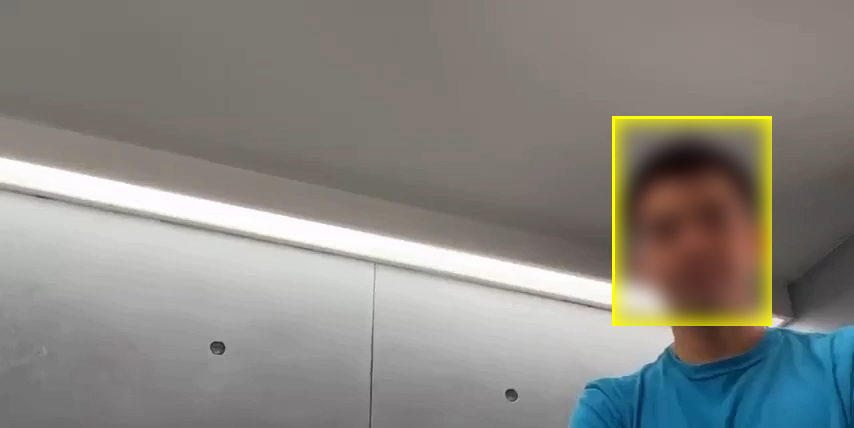
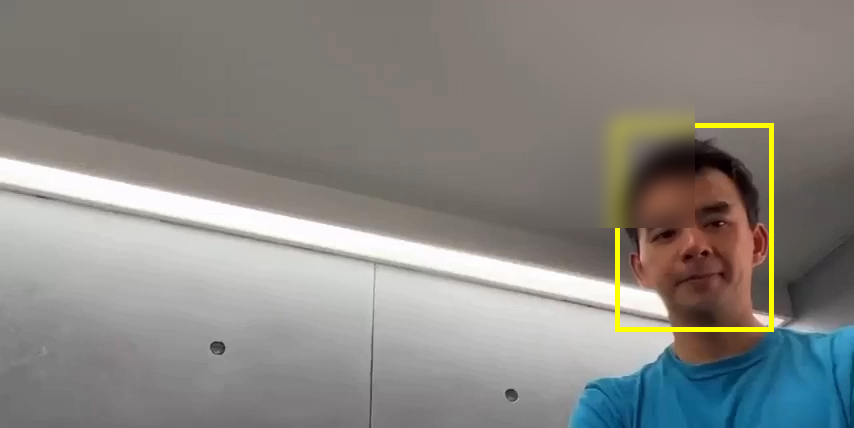
Correction of NCC computation

Changed region(s): [[0.7002, 0.2734, 0.9133, 0.7897]]

diff --git a/NccTracking.m b/NccTracking.m
@@ -6,20 +6,20 @@ templateDec = shrink(templateOri);
 [templateH,templateW,~]=size(templateOri);
 templateHI=templateH*2;
 templateWI=templateW*2;
-templateHD=templateH/2;
-templateWD=templateW/2;
+templateHD=floor(templateH/2);
+templateWD=floor(templateW/2);
 
 for f = 1:1
     % Update template after each cycle
     if f > 1
-        templateOri = double(frames(y0:y0+h, x0:x0+w, :, f-1));
+        templateOri = double(frames(y0:y0+h-1, x0:x0+w-1, :, f-1));
         templateInc = expand(templateOri);
         templateDec = shrink(templateOri);
         [templateH,templateW,~]=size(templateOri);
         templateHI=templateH*2;
         templateWI=templateW*2;
-        templateHD=templateH/2;
-        templateWD=templateW/2;
+        templateHD=floor(templateH/2);
+        templateWD=floor(templateW/2);
     end
     
     which = 1;
@@ -42,8 +42,8 @@ for f = 1:1
     w = 0;
     h = 0;
     if whichState==1
-        x0 = w1-(templateW+1)/2-1;
-        y0 = h1-(templateH+1)/2-1;
+        x0 = w1;
+        y0 = h1;
         w = templateW;
         h = templateH;
     elseif whichState==2
@@ -67,42 +67,47 @@ end
 
 function [count,ncc]=nccSort(template,which,ncc,height,width,bigImg,state)
     [templateH,templateW,~]=size(template);
-    %template sigma and mean
+    % Caculate template sigma and mean
     tSigmaR=std(template(:,:,1),0,'all');
     tSigmaG=std(template(:,:,2),0,'all');
     tSigmaB=std(template(:,:,3),0,'all');
     tMeanR=mean2(template(:,:,1));
     tMeanG=mean2(template(:,:,2));
     tMeanB=mean2(template(:,:,3));
-    %277-24+1,366-35+1
-    for h=templateH:height-templateH+1
-        for w=templateW:width-templateW+1
+
             if mod(templateH,2)==1
-                templateH=templateH-1;
+                templateH = templateH-1;
             end
             if mod(templateW,2)==1
-                templateW=templateW-1;
+                templateW = templateW-1;
             end
-            this(:,:,1)=double(bigImg(h-((templateH)/2-1):h+((templateH)/2-1),w-((templateW)/2-1):w+((templateW)/2-1),1));
-            this(:,:,2)=double(bigImg(h-((templateH)/2-1):h+((templateH)/2-1),w-((templateW)/2-1):w+((templateW)/2-1),2));
-            this(:,:,3)=double(bigImg(h-((templateH)/2-1):h+((templateH)/2-1),w-((templateW)/2-1):w+((templateW)/2-1),3));
-            %calculate sigma for bigImg
-            SigmaR=std(this(:,:,1),0,'all');
-            SigmaG=std(this(:,:,2),0,'all');
-            SigmaB=std(this(:,:,3),0,'all');
-            %calculate mean for bigImg
-            MeanR=mean2(this(:,:,1));
-            MeanG=mean2(this(:,:,2));
-            MeanB=mean2(this(:,:,3));  
+    
+    for h=1:height-templateH+1
+        for w=1:width-templateW+1
+            top = h;
+            bottom = h+templateH-1;
+            left = w;
+            right = w+templateW-1;
+            this(:,:,1) = double(bigImg(top:bottom, left:right, 1));
+            this(:,:,2) = double(bigImg(top:bottom, left:right, 2));
+            this(:,:,3) = double(bigImg(top:bottom, left:right, 3));
+            % Calculate sigma for bigImg
+            SigmaR = std(this(:,:,1),0,'all');
+            SigmaG = std(this(:,:,2),0,'all');
+            SigmaB = std(this(:,:,3),0,'all');
+            % Calculate mean for bigImg
+            MeanR = mean2(this(:,:,1));
+            MeanG = mean2(this(:,:,2));
+            MeanB = mean2(this(:,:,3));  
             temp=0;
-            for i=1:templateH-1
-                for j=1:templateW-1
-                    temp=temp+(this(i,j,1)-MeanR)*(template(i,j,1)-tMeanR)/(tSigmaR*SigmaR);
-                    temp=temp+(this(i,j,2)-MeanG)*(template(i,j,2)-tMeanG)/(tSigmaG*SigmaG);
-                    temp=temp+(this(i,j,3)-MeanB)*(template(i,j,3)-tMeanB)/(tSigmaB*SigmaB);
+            for i=1:templateH
+                for j=1:templateW
+                    temp = temp+(this(i,j,1)-MeanR)*(template(i,j,1)-tMeanR)/(tSigmaR*SigmaR);
+                    temp = temp+(this(i,j,2)-MeanG)*(template(i,j,2)-tMeanG)/(tSigmaG*SigmaG);
+                    temp = temp+(this(i,j,3)-MeanB)*(template(i,j,3)-tMeanB)/(tSigmaB*SigmaB);
                 end
             end
-            %47*69-1 (n-1)
+            disp(state);
             ncc(which,1)=temp/(templateH*templateW-1);
             ncc(which,2)=h;
             ncc(which,3)=w;
